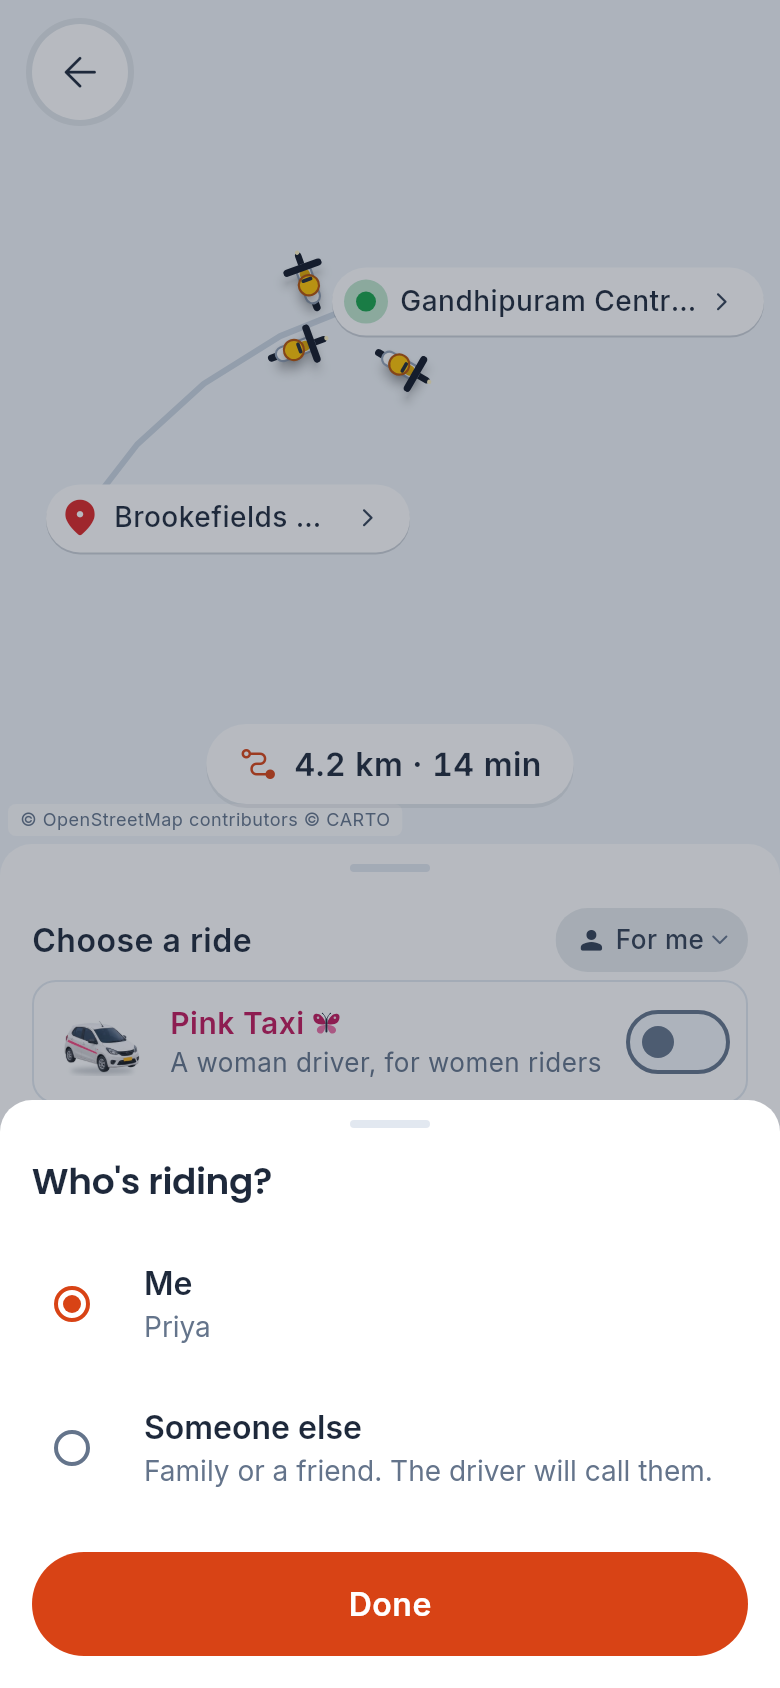
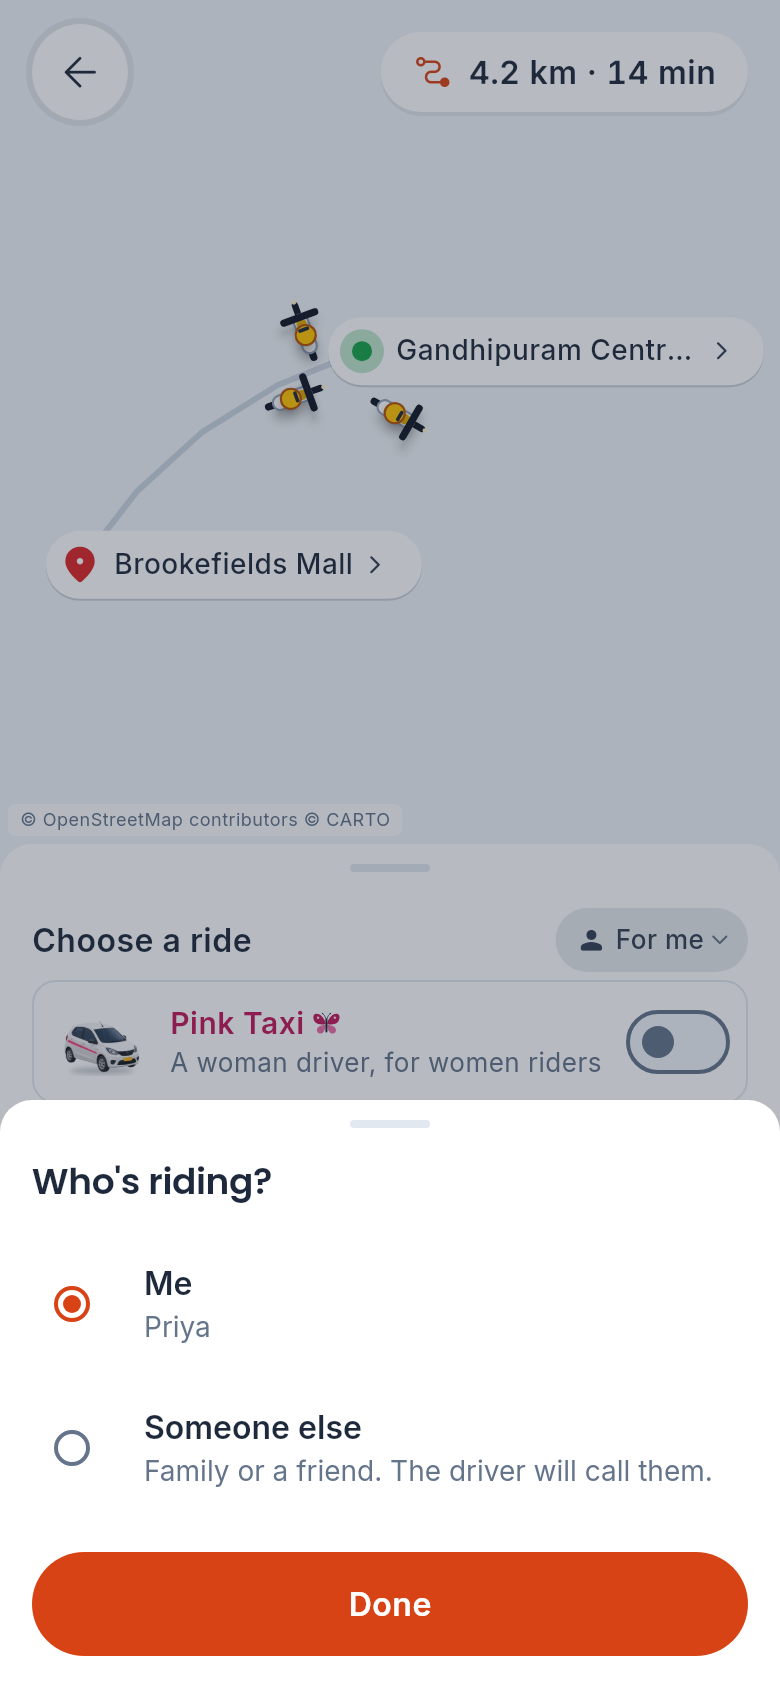
fix(ui): map name chips no longer cut short
The chips were measured with the bare text style while the Text merged
it with the screen's default style (Material letter spacing), so a name
that fits ("Brookefields Mall") was drawn wider than its box and ended
in "…". The chip now measures and draws one fully merged style, keeps
no size cache, re-measures when a font finishes loading, and keys its
Google marker bitmap by the measured width.

diff --git a/packages/tamiltaxi_ui/lib/src/widgets/tt_map.dart b/packages/tamiltaxi_ui/lib/src/widgets/tt_map.dart
@@ -274,25 +274,27 @@ class _PlaceChip extends StatelessWidget {
   /// Where the place is: the middle of the mark.
   static const Offset markCentre = Offset(_padLeft + _mark / 2, height / 2);
 
-  static TextStyle styleOf(BuildContext context) =>
-      context.type.bodySmallMedium.copyWith(color: TtColors.navy900, height: 1.2);
+  /// The full style, merged with the screen's default text style (its letter spacing and so on) as a [Text] would
+  /// be, so [sizeFor] measures exactly what [build] draws, on the map and in the marker bitmap alike.
+  static TextStyle styleOf(BuildContext context) => DefaultTextStyle.of(context)
+      .style
+      .merge(context.type.bodySmallMedium.copyWith(color: TtColors.navy900, height: 1.2));
 
-  static final _sizes = <String, Size>{};
-
-  /// The chip's size for [text], laid out as [build] lays it out.
-  static Size sizeFor(String text, TextStyle style, {required bool tappable}) =>
-      _sizes.putIfAbsent('$tappable|${style.hashCode}|$text', () {
-        final tp = TextPainter(
-          text: TextSpan(text: text, style: style),
-          maxLines: 1,
-          ellipsis: '…',
-          textDirection: TextDirection.ltr,
-          textScaler: TextScaler.noScaling,
-        )..layout(maxWidth: _maxText);
-        final w = _padLeft + _mark + 6 + tp.width + (tappable ? 2 + 18 : 0) + _padRight;
-        tp.dispose();
-        return Size(w.ceilToDouble(), height);
-      });
+  /// The chip's size for [text], laid out as [build] lays it out. Measured every time, not kept: a size measured
+  /// before the font has loaded is too narrow and would cut the name short for good.
+  static Size sizeFor(String text, TextStyle style, {required bool tappable}) {
+    final tp = TextPainter(
+      text: TextSpan(text: text, style: style),
+      maxLines: 1,
+      ellipsis: '…',
+      textDirection: TextDirection.ltr,
+      textScaler: TextScaler.noScaling,
+    )..layout(maxWidth: _maxText);
+    // 2 px spare so rounding never ellipsises the name.
+    final w = _padLeft + _mark + 6 + tp.width + 2 + (tappable ? 2 + 18 : 0) + _padRight;
+    tp.dispose();
+    return Size(w.ceilToDouble(), height);
+  }
 
   @override
   Widget build(BuildContext context) => Semantics(
@@ -587,6 +589,17 @@ class _FlutterTtMap extends StatefulWidget {
 class _FlutterTtMapState extends State<_FlutterTtMap> {
   MapController? _own;
 
+  @override
+  void initState() {
+    super.initState();
+    PaintingBinding.instance.systemFonts.addListener(_fontsLoaded);
+  }
+
+  /// A font finished loading: measure the name chips again ([_PlaceChip.sizeFor]).
+  void _fontsLoaded() {
+    if (mounted && (m.pickupLabel != null || m.dropLabel != null)) setState(() {});
+  }
+
   TtMap get m => widget.map;
   MapController get _mapController => m.controller?._flutterMap ?? (_own ??= MapController());
 
@@ -609,6 +622,7 @@ class _FlutterTtMapState extends State<_FlutterTtMap> {
 
   @override
   void dispose() {
+    PaintingBinding.instance.systemFonts.removeListener(_fontsLoaded);
     _own?.dispose();
     super.dispose();
   }

diff --git a/packages/tamiltaxi_ui/lib/src/widgets/tt_map_google.dart b/packages/tamiltaxi_ui/lib/src/widgets/tt_map_google.dart
@@ -124,6 +124,12 @@ class _GoogleTtMapState extends State<_GoogleTtMap> with WidgetsBindingObserver 
     super.initState();
     m.controller?._google = this;
     WidgetsBinding.instance.addObserver(this);
+    PaintingBinding.instance.systemFonts.addListener(_fontsLoaded);
+  }
+
+  /// A font finished loading: measure the name chips again, which draws new bitmaps ([_chipKey] holds the width).
+  void _fontsLoaded() {
+    if (mounted && (m.pickupLabel != null || m.dropLabel != null)) setState(() {});
   }
 
   /// Android (texture layer platform view): after the app was in the background (Google Maps navigation, a
@@ -209,6 +215,7 @@ class _GoogleTtMapState extends State<_GoogleTtMap> with WidgetsBindingObserver 
   @override
   void dispose() {
     WidgetsBinding.instance.removeObserver(this);
+    PaintingBinding.instance.systemFonts.removeListener(_fontsLoaded);
     if (m.controller?._google == this) m.controller!._google = null;
     super.dispose();
   }
@@ -303,8 +310,8 @@ class _GoogleTtMapState extends State<_GoogleTtMap> with WidgetsBindingObserver 
         need(kind, mark, markSize);
       } else {
         final tap = onTap != null;
-        need(_chipKey(kind, label, tap), _PlaceChip(text: label, drop: drop, tappable: tap, style: style),
-            _PlaceChip.sizeFor(label, style, tappable: tap));
+        final size = _PlaceChip.sizeFor(label, style, tappable: tap);
+        need(_chipKey(kind, label, tap, size), _PlaceChip(text: label, drop: drop, tappable: tap, style: style), size);
       }
     }
 
@@ -317,7 +324,9 @@ class _GoogleTtMapState extends State<_GoogleTtMap> with WidgetsBindingObserver 
     }
   }
 
-  static String _chipKey(String kind, String label, bool tappable) => 'chip-$kind-$tappable-$label';
+  /// The chip's bitmap key; its width is in it, so a chip measured again once the font has loaded gets a new bitmap.
+  static String _chipKey(String kind, String label, bool tappable, Size size) =>
+      'chip-$kind-$tappable-${size.width.round()}-$label';
 
   /// The pickup / drop marker: its name chip with the mark on the point, or the bare dot (centred) / pin (tip on the
   /// point, as flutter_map's Alignment.topCenter).
@@ -325,9 +334,9 @@ class _GoogleTtMapState extends State<_GoogleTtMap> with WidgetsBindingObserver 
     if (at == null) return null;
     if (label != null) {
       final tap = onTap != null;
-      final icon = _icons[_chipKey(kind, label, tap)];
-      if (icon == null) return null;
       final size = _PlaceChip.sizeFor(label, _PlaceChip.styleOf(context), tappable: tap);
+      final icon = _icons[_chipKey(kind, label, tap, size)];
+      if (icon == null) return null;
       return gm.Marker(
         markerId: gm.MarkerId(kind),
         position: _g(at),
